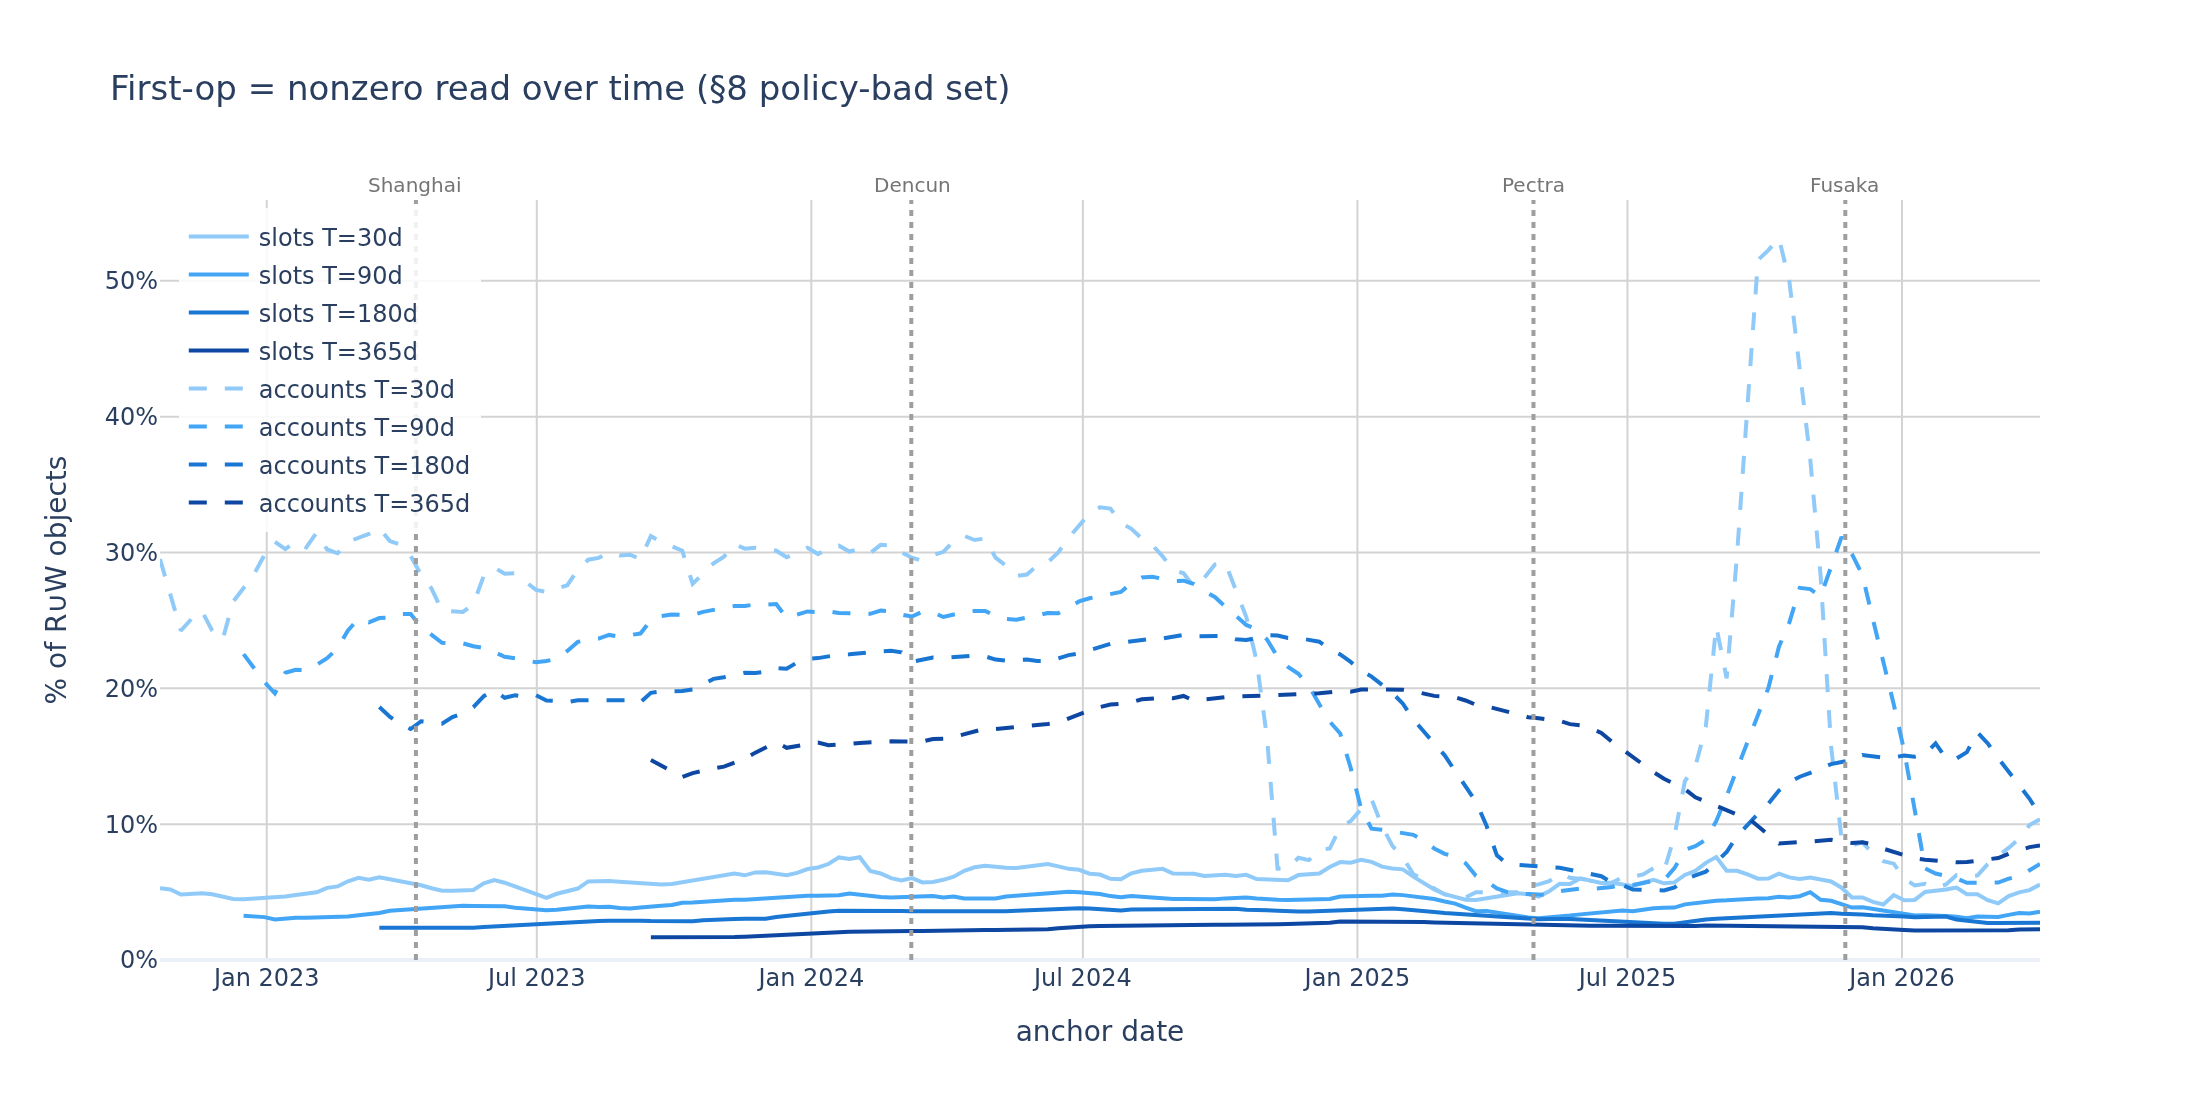
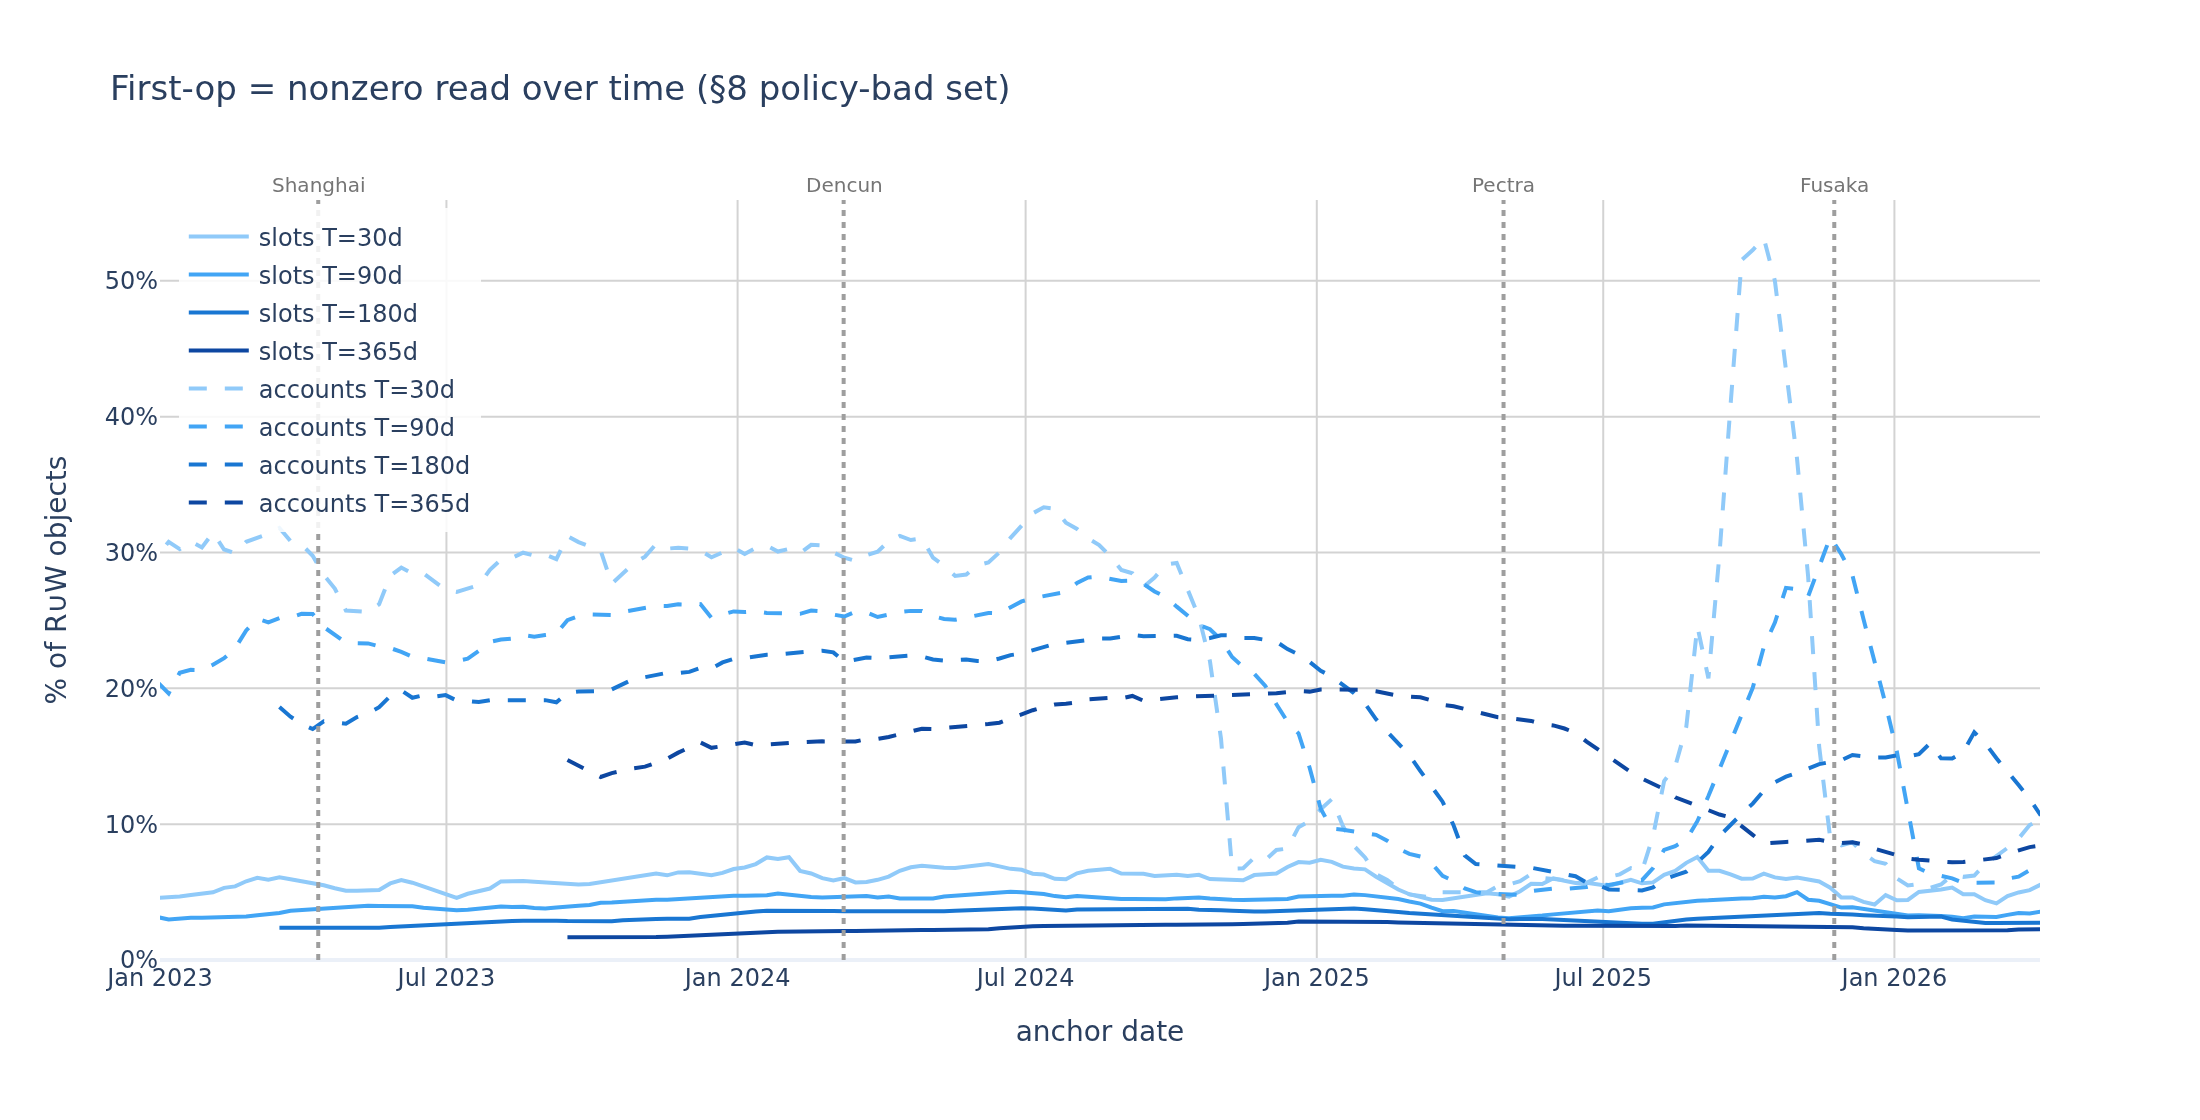
state_access v2: align sweep chart x-axes from Jan 2023, label forks, rewrite write findings

diff --git a/state_access/analysis_v2_sweep.py b/state_access/analysis_v2_sweep.py
@@ -23,6 +23,11 @@ from state_access.history_config import FORKS, block_to_date
 
 WINDOW_COLORS = {30: "#90CAF9", 90: "#42A5F5", 180: "#1976D2", 365: "#0D47A1"}
 
+# Every time-series chart shares this left bound so the panels line up. The 365d window
+# has no anchors before late 2023, so its panel carries a blank lead-in rather than its
+# own narrower axis.
+X_AXIS_START = "2023-01-01"
+
 # Write lifecycle composition: each written slot falls in exactly one class; shares sum to
 # |W|. The six W_mixed combos collapse to four families (cycle-count split dropped). Stack
 # order runs born → grown → modified in place → ephemeral/died, with one fixed colour each.
@@ -167,8 +172,8 @@ def _composition_fig(df: pd.DataFrame, classes: list, denom_col: str, title: str
     """4-panel (one per window) stacked-area composition over time, shares to 100%."""
     windows = sorted(df["window_days"].unique())
     fig = make_subplots(
-        rows=2, cols=2, subplot_titles=[f"T = {t}d" for t in windows],
-        shared_yaxes=True, vertical_spacing=0.11, horizontal_spacing=0.06)
+        rows=2, cols=2, shared_yaxes=True, vertical_spacing=0.13,
+        horizontal_spacing=0.06)
     for i, t in enumerate(windows):
         row, col = i // 2 + 1, i % 2 + 1
         sub = df[df.window_days == t].sort_values("date")
@@ -179,9 +184,19 @@ def _composition_fig(df: pd.DataFrame, classes: list, denom_col: str, title: str
                 x=sub["date"], y=100 * num / denom, name=label, legendgroup=label,
                 showlegend=(i == 0), mode="lines", stackgroup=f"w{t}",
                 line=dict(color=color, width=0.5), fillcolor=color), row=row, col=col)
-    when = [block_to_date(b).strftime("%Y-%m-%d") for b in FORKS.values()]
-    for x in when:
+        fig.add_annotation(text=f"T = {t}d", row=row, col=col, xref="x domain",
+                           yref="y domain", x=0.02, y=0.97, showarrow=False,
+                           xanchor="left", yanchor="top",
+                           font=dict(size=13, color="#212121"),
+                           bgcolor="rgba(255,255,255,0.72)")
+    # Fork lines span every panel; label them once above the top row, clear of the fill.
+    for name, block in FORKS.items():
+        x = block_to_date(block).strftime("%Y-%m-%d")
         fig.add_vline(x=x, line_dash="dot", line_color="#9E9E9E", row="all", col="all")
+        for col in (1, 2):
+            fig.add_annotation(x=x, y=1.0, yref="y domain", text=name, row=1, col=col,
+                               showarrow=False, yanchor="bottom", yshift=4,
+                               font=dict(size=9, color="#616161"))
     fig.update_yaxes(range=[0, 100], ticksuffix="%", gridcolor="lightgray")
     fig.update_xaxes(gridcolor="lightgray")
     fig.update_layout(
@@ -242,7 +257,9 @@ def render_all(df: pd.DataFrame) -> None:
                        "non-empty")
     charts.append(("sweep_empty_split.png", fig))
 
+    x_end = df["date"].max().strftime("%Y-%m-%d")
     for name, fig in charts:
+        fig.update_xaxes(range=[X_AXIS_START, x_end])
         write_image_safe(fig, DATA_DIR_V2 / name)
         print(f"  rendered {name}", flush=True)
 

diff --git a/state_access/REPORT_v2.md b/state_access/REPORT_v2.md
@@ -171,15 +171,24 @@ equally:
 | 180 | 55.5% | 10.0% |  9.4% | 3.7% | 13.6% | 0.6% | 7.2% |
 | 365 | 55.4% | 11.4% |  7.0% | 4.2% | 14.7% | 0.5% | 6.8% |
 
-TODO: the chart is a bit weird on T = 365D. All charts should use the same x-axis. Meaning start from Jan 2023. There are the vertical lines but it's not obvious what is it. Add the fork label and make sure the label is positioned correctly and don't overlap with the chart.
 ![Slot write composition over time](data/v2/sweep_write_composition.png)
 
 Findings:
 
-- **C is the most dominant across all windows, ~55% of |W|:** Most slots are initialized in window and never touched again, which is state growth rather than churn. C is also the most volatile class. At T=30 it swings between 38% and 68% week to week, dipping through the 2024 activity surge and recovering after.
-- **`C+D` is the largest mixed class, ~12–15% of |W|.** These are emphemeral slots born
-  and died inside the window. The share is steady at every window across the timeline.
-- TODO: any interesting and actual findings rather than fluff?
+- **C dominates at every window, ~55% of |W|.** Most slots are initialized in window and
+  never touched again, which is state growth rather than churn. C is also the most volatile
+  class. At T=30 it swings between 38% and 68% week to week, dipping through the 2024
+  activity surge and recovering after.
+- **`C+D` is the largest mixed class, ~12–15% of |W|.** These are ephemeral slots born and
+  died inside the window. The share is steady at every window across the timeline.
+- **Creation dominates more at longer windows.** The create-bearing classes (C, C+U, C+D,
+  C+U+D) are ~76% of |W| at T=30 and ~86% at T=365, while pure in-place updates (U) halve
+  from 14% to 7%. A longer window captures more of each slot's birth, so the write set looks
+  even more growth-driven the further back it reaches.
+- **Only a minority of writes are repriceable.** The update-bearing classes (U, C+U, U+D,
+  C+U+D) are ~a quarter of |W| (≈26% at T=30, ≈23% at T=365). A write-age tier can only
+  discount updates, so with |W| at ~25% of live slots (§5.1, T=365), the repriceable set is
+  ~5–6% of all state.
 
 ### 4.2 Read structure
 
